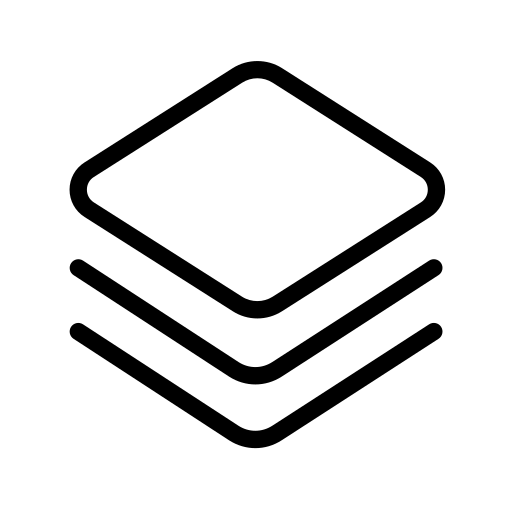
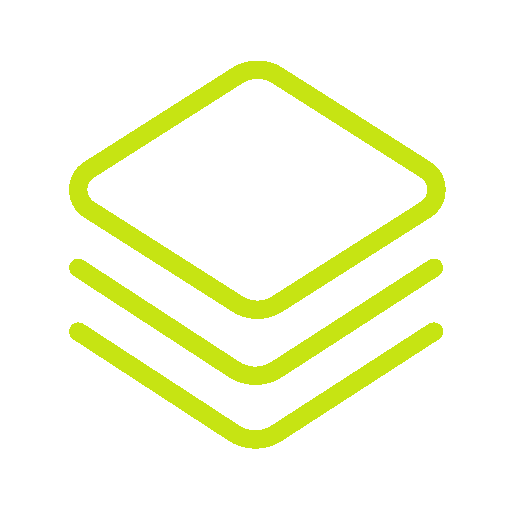
Redesigned footer and contact section

Changed region(s): [[0.125, 0.0938, 0.875, 0.625], [0.125, 0.625, 0.875, 0.875], [0.125, 0.5, 0.875, 0.75]]

diff --git a/assets/css/style.css b/assets/css/style.css
@@ -31,14 +31,6 @@ p, span, div{
     color: var(--primary-green);
 }
 
-#contact {
-    display: flex;
-    justify-content: center;
-    align-items: center;
-    flex-direction: column;
-    color: white;
-}
-
 .buttonHero, .buttonContact{
     display: flex;
     justify-content: center;
@@ -75,6 +67,11 @@ p, span, div{
     border-radius: 10px;
     margin: 10px 0px;
     padding: 10px;
+    transition: background-color 0.3s ease;
+}
+
+.buttonCard:hover{
+    background-color: rgb(0, 0, 0, 0.1);
 }
 
 .bg-prim-blue{
@@ -136,7 +133,7 @@ p, span, div{
     display: flex;
     align-items: center;
     justify-content: center;
-    margin: 0px 0px 10px 0px;
+    margin: 20px 0px 10px 0px;
 }
 .PDFlink a{
     text-decoration: underline;
@@ -151,16 +148,25 @@ p, span, div{
     justify-content: space-between;
 }
 
+#contact {
+    display: flex;
+    justify-content: center;
+    align-items: center;
+    flex-direction: column;
+    color: white;
+}
+
 .formContact{
     display: flex;
     justify-content: space-between;
+    align-items: center;
+    width: 100%;
 }
 
 .containerContact{
     border: 10px solid var(--primary-green);
     background-color: #fff;
     border-radius: 10px;
-    padding: 10px;
     width: 450px;
 }
 
@@ -168,6 +174,9 @@ p, span, div{
     max-width: 50%;
 }
 
+.contactForm{
+    padding: 10px;
+}
 
 .submitBTN{
     border: 0;
@@ -308,5 +317,67 @@ p, span, div{
     object-fit: cover;
 }
 
-.langHead{
+.paddingDesktop{
+    padding: 10px 20px;
+}
+
+.footer{
+    display: flex;
+    flex-direction: column;
+    background-color: #234BAA;
+    padding-top: 20px;
+}
+
+.footerContainer{
+    background-color: #fff;
+    width: 100%;
+    height: 100%;
+    border-radius: 30px 30px 0px 0px;
+    padding: 20px 0px;
+}
+
+.footerHead{
+    text-align: center;
+    padding: 10px 0px;
+}
+
+.footerNav{
+    display: flex;
+    flex-direction: column;
+    align-items: center;
+    justify-content: center;
+    gap: 10px;
+    padding: 0px 0px;
+}
+
+.footerNav li{
+    list-style-type: none;
+    padding: 10px 0px;
+    width: 70%;
+    text-align: center;
+}
+
+.footerNavLink{
+    text-decoration: none;
+    color: #000;
+    font-size: 20px;
+    font-weight: 600;
+}
+
+.socialLinksCont{
+    display: flex;
+    width: 100%;
+    height: 60px;
+    justify-content: center;
+    align-items: center;
+    gap: 10px;
+}
+
+.socialLink{
+    text-decoration: none;
+    color: #000;
+}
+
+.spanFont{
+    font-size: 32px;
 }

diff --git a/index.html b/index.html
@@ -4,6 +4,7 @@
 <head>
     <meta charset="UTF-8" />
     <meta name="viewport" content="width=device-width, initial-scale=1.0" />
+    <link rel="icon" href="assets/img/portfolio.png" type="img/png" />
     <link href="https://cdn.jsdelivr.net/npm/bootstrap@5.3.8/dist/css/bootstrap.min.css" rel="stylesheet"
         integrity="sha384-sRIl4kxILFvY47J16cr9ZwB07vP4J8+LH7qKQnuqkuIAvNWLzeN8tE5YBujZqJLB" crossorigin="anonymous" />
     <link rel="preconnect" href="https://fonts.googleapis.com" />
@@ -341,17 +342,16 @@
         </div>
     </section>
 
-    <section id="contact" class="paddingDesktop pt-3 pb-5 bg-prim-blue">
+    <section id="contact" class="paddingDesktop bg-prim-blue">
         <div class="formContact d-none d-lg-flex">
             <div class="contactText">
                 <h2 class="contactHeading">Contact me!</h2>
                 <p class="contactParagraph">Lorem ipsum dolor sit amet consectetur adipisicing elit. Dignissimos
                     adipisci excepturi soluta
                     temporibus velit? Inventore odio libero fugit possimus</p>
-
             </div>
             <div class="containerContact">
-                <form action="index.php" method="post">
+                <form action="index.php" method="post" class="contactForm">
                     <div class="row mb-3">
                         <div class="col">
                             <label for="firstName" class="form-label text-dark">First Name</label>
@@ -439,35 +439,33 @@
         </div>
     </section>
 
-    <section id="footer" class="p-3 mt-5">
-        <h3 class="fs-1 text-center mt-3 mb-5">Elvis Omić - Portfolio</h3>
-        <div class="border-top border-2 border-dark border-bottom py-3">
-            <a href="#" class="link-underline link-underline-opacity-0 fs-3 fw-bold text-dark">HOME</a>
-        </div>
-        <div class="border-2 border-dark border-bottom py-3">
-            <a href="#aboutMe" class="link-underline link-underline-opacity-0 fs-3 fw-bold text-dark">ABOUT ME</a>
-        </div>
-        <div class="border-2 border-dark border-bottom py-3">
-            <a href="#projects" class="link-underline link-underline-opacity-0 fs-3 fw-bold text-dark">PROJECTS</a>
-        </div>
+    <section id="footer" class="footer">
+        <div class="footerContainer paddingDesktop">
+                
+            <h3 class="footerHead">Elvis Omić - Portfolio</h3>
+            <ul class="footerNav">
+                <li><a href="#" class="footerNavLink">HOME</a></li>
+                <li style="border-top: 1px solid #000; border-bottom: 1px solid #000;"><a href="#aboutMe" class="footerNavLink">ABOUT ME</a></li>
+                <li><a href="#projects" class="footerNavLink">PROJECTS</a></li>
+            </ul>
+            <div class="socialLinksCont">
+                <a href="https://www.instagram.com/elvis_omic/" class="socialLink">
+                    <span class="fa-brands fa-instagram spanFont"></span>
+                </a>
+                <a href="https://github.com/elvisomic/" class="socialLink">
+                    <span class="fa-brands fa-github spanFont"></span>
+                </a>
+                <a href="https://www.linkedin.com/in/elvis-omic/" class="socialLink">
+                    <span class="fa-brands fa-linkedin spanFont"></span>
+                </a>
+                <a href="mailto:[email redacted]" class="socialLink">
+                    <span class="fa-solid fa-at spanFont"></span>
+                </a>
+            </div>
 
-        <div class="d-flex justify-content-center align-items-center pt-5 pb-3 gap-3">
-            <a href="https://www.instagram.com/elvis_omic/" class="text-dark">
-                <span class="fa-brands fa-instagram fs-1"></span>
-            </a>
-            <a href="https://github.com/elvisomic/" class="text-dark">
-                <span class="fa-brands fa-github fs-1"></span>
-            </a>
-            <a href="https://www.linkedin.com/in/elvis-omic/" class="text-dark">
-                <span class="fa-brands fa-linkedin fs-1"></span>
-            </a>
-            <a href="mailto:[email redacted]" class="text-dark">
-                <span class="fa-solid fa-at fs-1"></span>
-            </a>
-        </div>
-
-        <div class="PDFlink">
-            <a href="assets/ocenjivanje.pdf">PDF</a>
+            <div class="PDFlink">
+                <a href="assets/ocenjivanje.pdf">PDF</a>
+            </div>
         </div>
     </section>
 

diff --git a/assets/css/responsive.css b/assets/css/responsive.css
@@ -2,9 +2,6 @@
     .heroText h1 {
         font-size: 48px
     }
-    .paddingDesktop{
-        padding: 10px 20px;
-    }
 }
 
 @media screen and (min-width: 577px) {